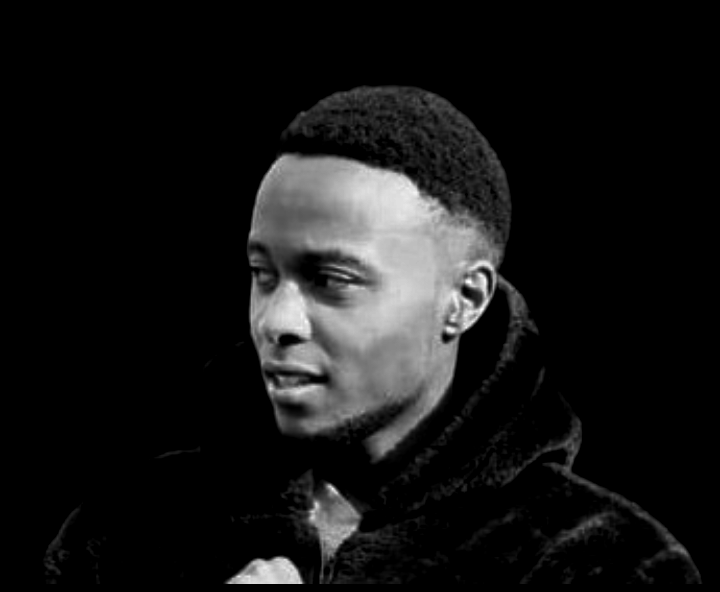
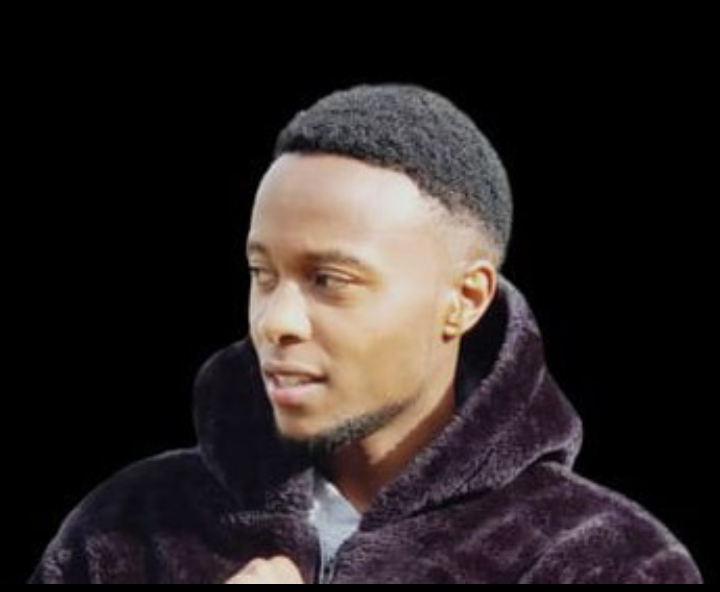
changes

diff --git a/index.html b/index.html
@@ -37,7 +37,7 @@
         <div class="content">
             <h4>Hello, my name is</h4>
             <h1>James <span> Njoroge</span></h1>
-            <h3>I am Web Developer .</h3>
+            <h3>~ I am Web Developer ~ .</h3>
             <div class="newsletter">
                 <form>
                     <input type="email" name="email" id="email" placeholder="Enter Your Email">

diff --git a/style.css b/style.css
@@ -9,7 +9,7 @@
 .hero{
     height: 100vh;
     width: 100%;
-    background-image: url(img/final.png);
+    background-image: url(img/main2.png);
     background-size: cover;
     background-position: center;
 
@@ -41,6 +41,7 @@ img{
 }
 span{
     color: crimson;
+    font-size: 40px;
 }
 nav ul li{
     list-style-type: none;
